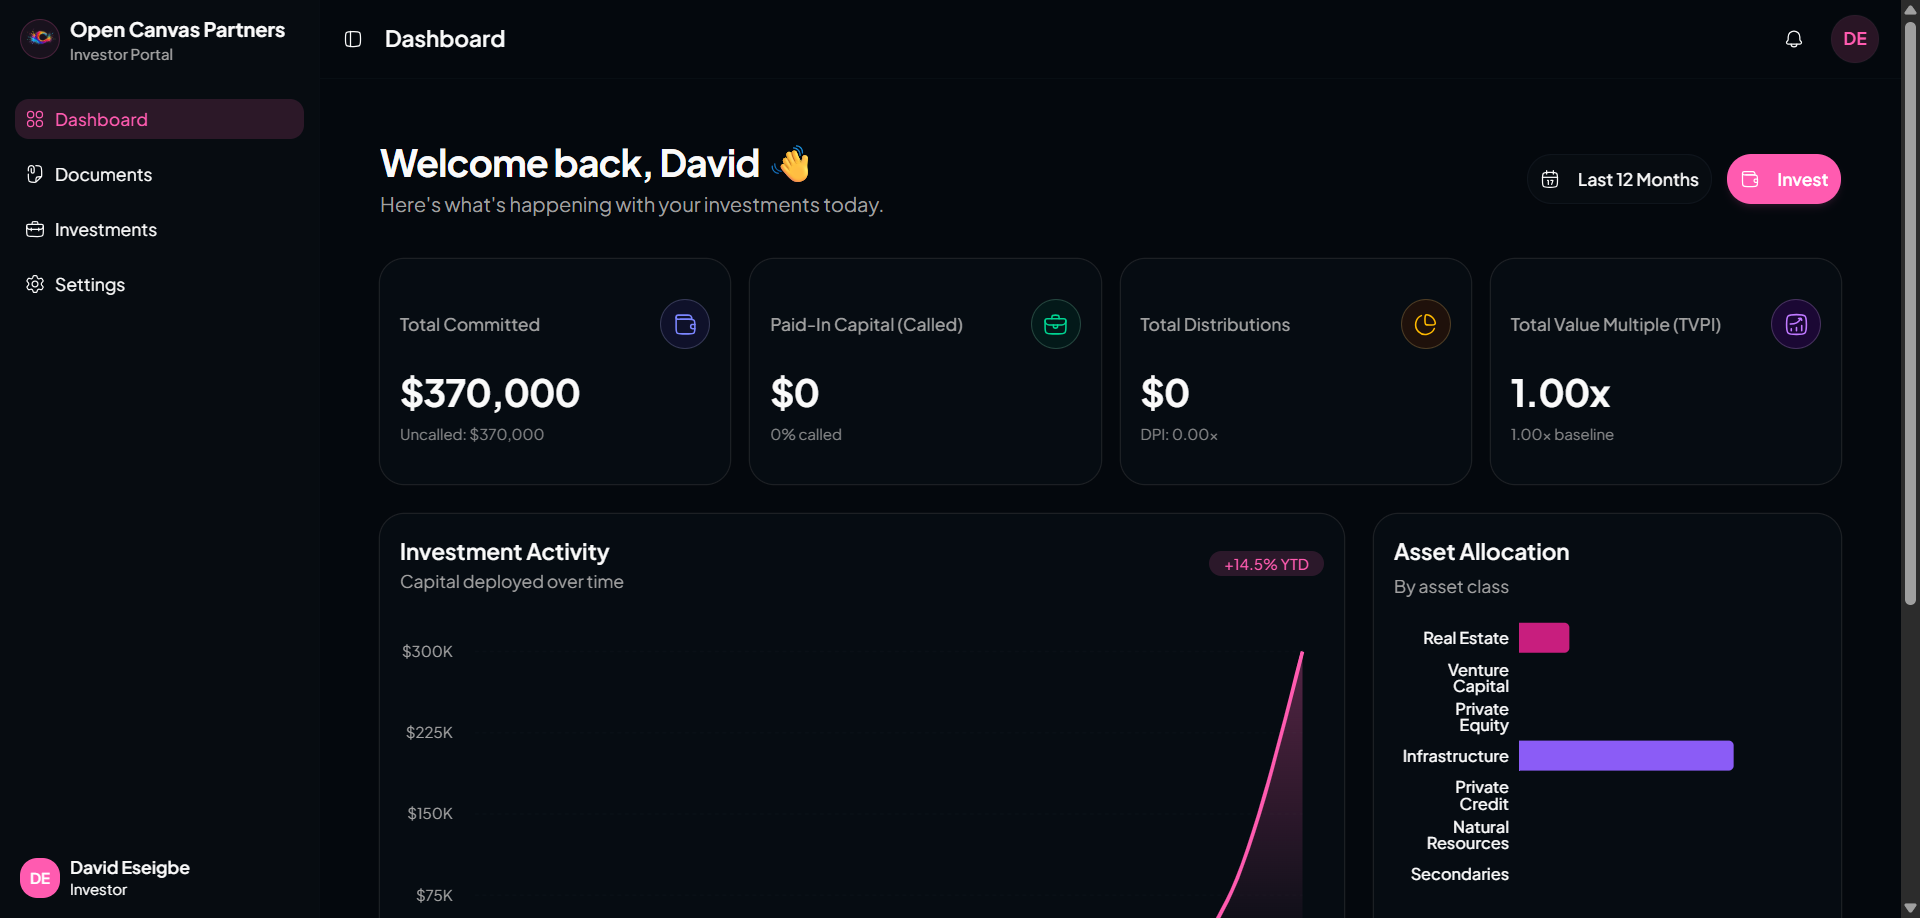
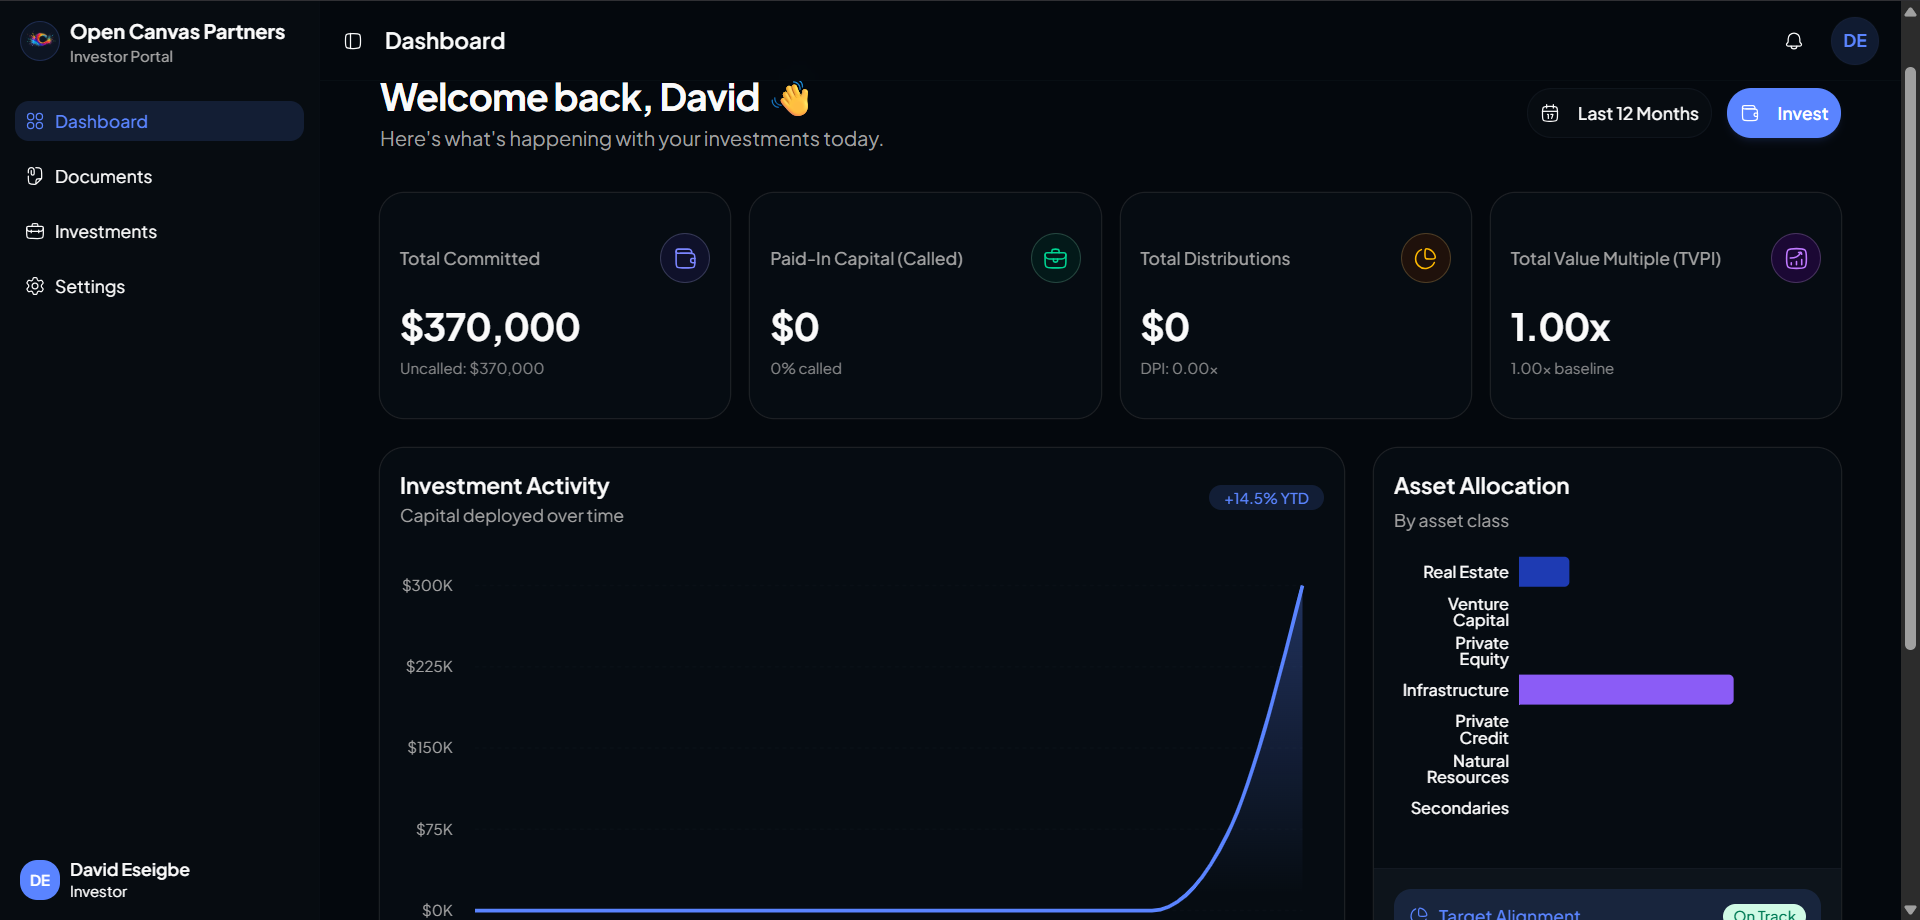
chore: update skills list

diff --git a/src/data/data.tsx b/src/data/data.tsx
@@ -185,7 +185,7 @@ export const Skills: skillsProps[] = [
     title: "Mobile Development",
     icon: <FaMobileAlt />,
     color: "from-purple-500 to-pink-500",
-    tech: ["React Native", "Mobile UI/UX", "Push Notifications"],
+    tech: ["React Native", "Push Notifications"],
   },
   // {
   //   title: "DevOps & Tools",

diff --git a/src/components/sections/About.tsx b/src/components/sections/About.tsx
@@ -102,7 +102,7 @@ export default function About() {
             </h2>
             <div className="flex flex-wrap gap-2">
               {Skills.flatMap((s) => s.tech)
-                .slice(0, 12)
+
                 .map((tech, i) => (
                   <span
                     key={i}
